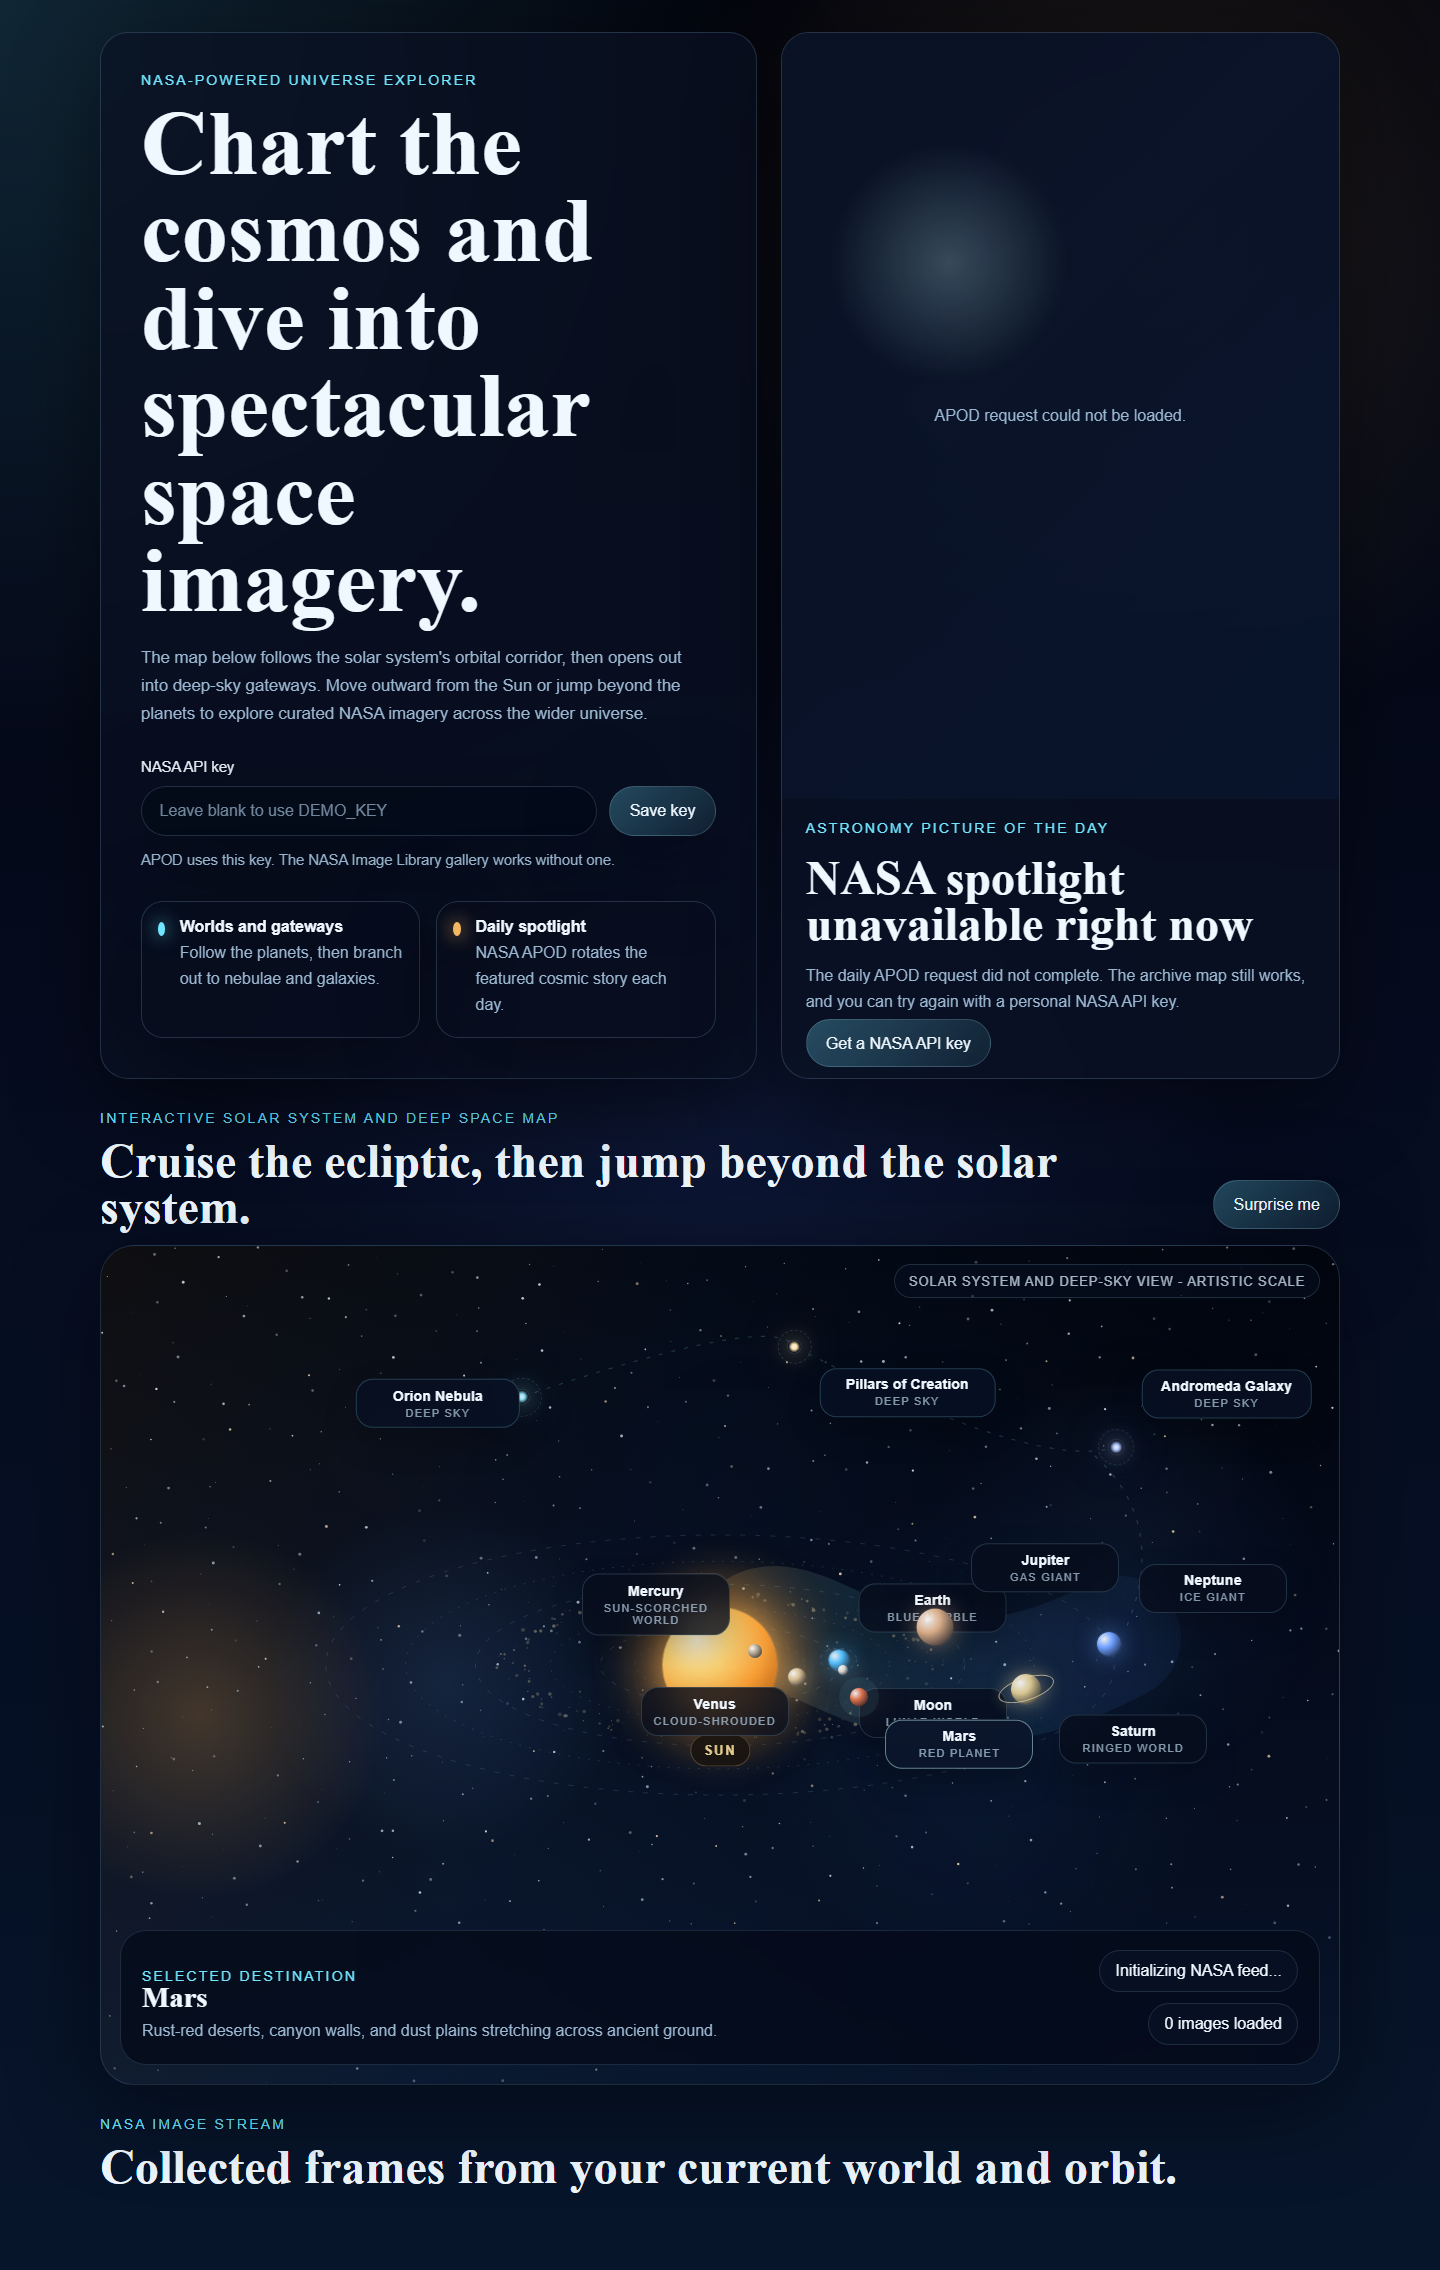
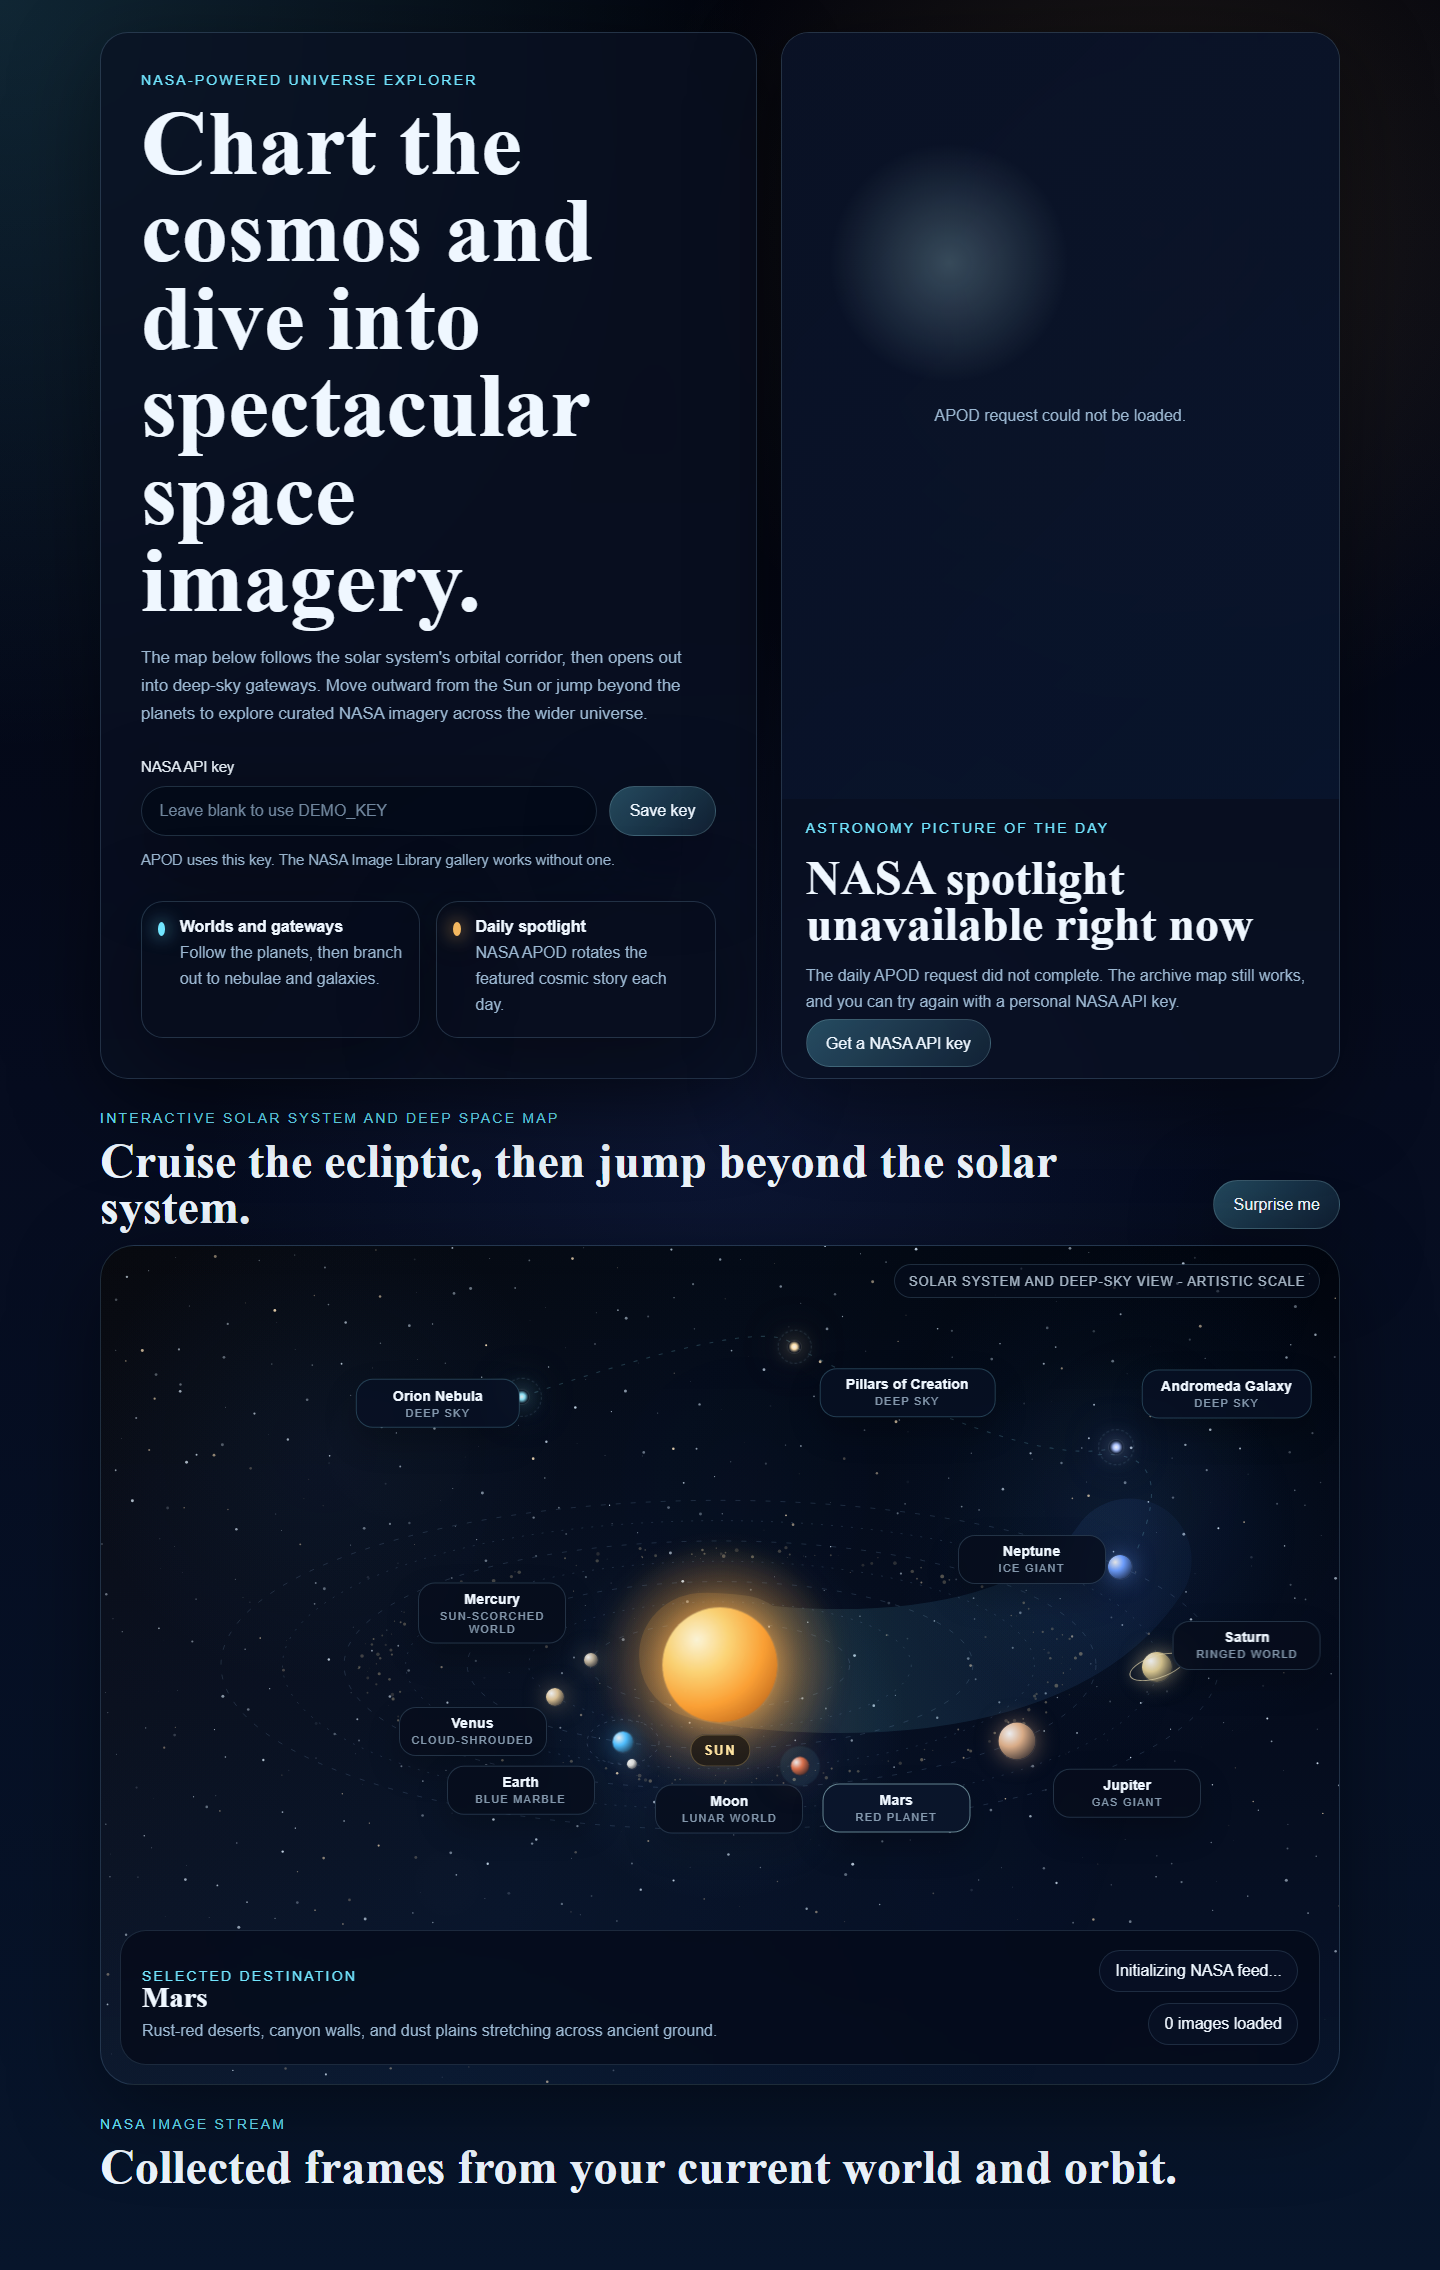
Polish solar map spacing and visuals

Changed region(s): [[0.2812, 0.6476, 0.9062, 0.8018], [0.0625, 0.7093, 0.2188, 0.8018]]

diff --git a/app.js b/app.js
@@ -9,6 +9,12 @@ const SOLAR_SYSTEM_REFERENCE = {
   orbitTilt: 0.33,
 };
 
+const SOLAR_DISPLAY_ARC = {
+  start: 186,
+  end: -38,
+  rotationSpeed: 0.0000032,
+};
+
 const MAP_LABEL_CONFIG = {
   desktop: {
     bottomSafeArea: 130,
@@ -369,17 +375,11 @@ function syncMapLayout(time = 0) {
 
 function computeSolarLayout(width, height, time = 0) {
   const mobile = width <= 720;
+  const primaryNodes = nodeDefinitions.filter((node) => !node.parentId && node.realm !== "deep");
   const sun = {
     x: width * SOLAR_SYSTEM_REFERENCE.x,
     y: height * SOLAR_SYSTEM_REFERENCE.y,
   };
-  const outerOrbitReference = nodeDefinitions.reduce((maxOrbit, node) => {
-    if (node.parentId || node.realm === "deep") {
-      return maxOrbit;
-    }
-
-    return Math.max(maxOrbit, node.orbit || 0);
-  }, 1);
   const horizontalPadding = mobile ? 58 : 120;
   const topPadding = mobile ? 96 : 88;
   const bottomPadding = mobile ? 210 : 176;
@@ -389,6 +389,9 @@ function computeSolarLayout(width, height, time = 0) {
     (sun.y - topPadding) / SOLAR_SYSTEM_REFERENCE.orbitTilt,
     (height - sun.y - bottomPadding) / SOLAR_SYSTEM_REFERENCE.orbitTilt,
   );
+  const innerOrbitX = Math.max(mobile ? 58 : 92, outerOrbitX * (mobile ? 0.29 : 0.26));
+  const orbitSpan = Math.max(1, outerOrbitX - innerOrbitX);
+  const arcRotation = time * SOLAR_DISPLAY_ARC.rotationSpeed;
 
   const nodes = new Map();
 
@@ -412,10 +415,9 @@ function computeSolarLayout(width, height, time = 0) {
         return;
       }
 
-      const orbitX = Math.max(18, outerOrbitX * (node.orbit / outerOrbitReference));
+      const orbitX = Math.max(24, Math.min(36, innerOrbitX * 0.34));
       const orbitY = orbitX * 0.62;
-      const angle =
-        degreesToRadians(node.angle) + time * (node.orbitSpeed || 0);
+      const angle = degreesToRadians(node.angle) + time * (node.orbitSpeed || 0);
 
       nodes.set(node.id, {
         ...node,
@@ -429,10 +431,13 @@ function computeSolarLayout(width, height, time = 0) {
       return;
     }
 
-    const orbitX = outerOrbitX * (node.orbit / outerOrbitReference);
+    const nodeIndex = primaryNodes.findIndex((entry) => entry.id === node.id);
+    const nodeRatio =
+      primaryNodes.length <= 1 ? 0.5 : nodeIndex / (primaryNodes.length - 1);
+    const orbitX = innerOrbitX + orbitSpan * nodeRatio;
     const orbitY = orbitX * SOLAR_SYSTEM_REFERENCE.orbitTilt;
-    const angle =
-      degreesToRadians(node.angle) + time * (node.orbitSpeed || 0);
+    const displayAngle = lerp(SOLAR_DISPLAY_ARC.start, SOLAR_DISPLAY_ARC.end, nodeRatio);
+    const angle = degreesToRadians(displayAngle) + arcRotation;
 
     nodes.set(node.id, {
       ...node,
@@ -626,6 +631,10 @@ function circleIntersectsRect(circle, rect, padding = 0) {
 
 function clamp(value, min, max) {
   return Math.min(Math.max(value, min), max);
+}
+
+function lerp(start, end, ratio) {
+  return start + (end - start) * ratio;
 }
 
 function initializeApiKeyForm() {

diff --git a/styles.css b/styles.css
@@ -316,9 +316,10 @@ h3 {
   border-radius: 34px;
   isolation: isolate;
   background:
-    radial-gradient(circle at 8% 56%, rgba(255, 176, 70, 0.22) 0%, transparent 15%),
-    radial-gradient(circle at 28% 52%, rgba(95, 163, 255, 0.12), transparent 18%),
-    radial-gradient(circle at 72% 58%, rgba(31, 96, 172, 0.1), transparent 24%),
+    radial-gradient(circle at 50% 50%, rgba(255, 176, 70, 0.16) 0%, transparent 18%),
+    radial-gradient(circle at 50% 56%, rgba(95, 163, 255, 0.11), transparent 24%),
+    radial-gradient(circle at 18% 24%, rgba(44, 96, 176, 0.08), transparent 20%),
+    radial-gradient(circle at 84% 30%, rgba(31, 96, 172, 0.09), transparent 22%),
     linear-gradient(180deg, rgba(1, 5, 14, 0.99), rgba(5, 12, 28, 0.96) 52%, rgba(8, 20, 42, 0.95));
 }
 
@@ -368,9 +369,9 @@ h3 {
   z-index: 2;
   pointer-events: none;
   background:
-    radial-gradient(circle at 50% 50%, rgba(255, 186, 95, 0.22), transparent 14%),
-    linear-gradient(110deg, rgba(255, 184, 77, 0.06), rgba(99, 177, 255, 0.04) 40%, transparent 82%),
-    radial-gradient(circle at 83% 40%, rgba(86, 160, 255, 0.07), transparent 18%);
+    radial-gradient(circle at 50% 50%, rgba(255, 186, 95, 0.2), transparent 16%),
+    linear-gradient(110deg, rgba(255, 184, 77, 0.03), rgba(99, 177, 255, 0.04) 42%, transparent 82%),
+    radial-gradient(circle at 82% 34%, rgba(86, 160, 255, 0.06), transparent 16%);
 }
 
 .solar-reference {